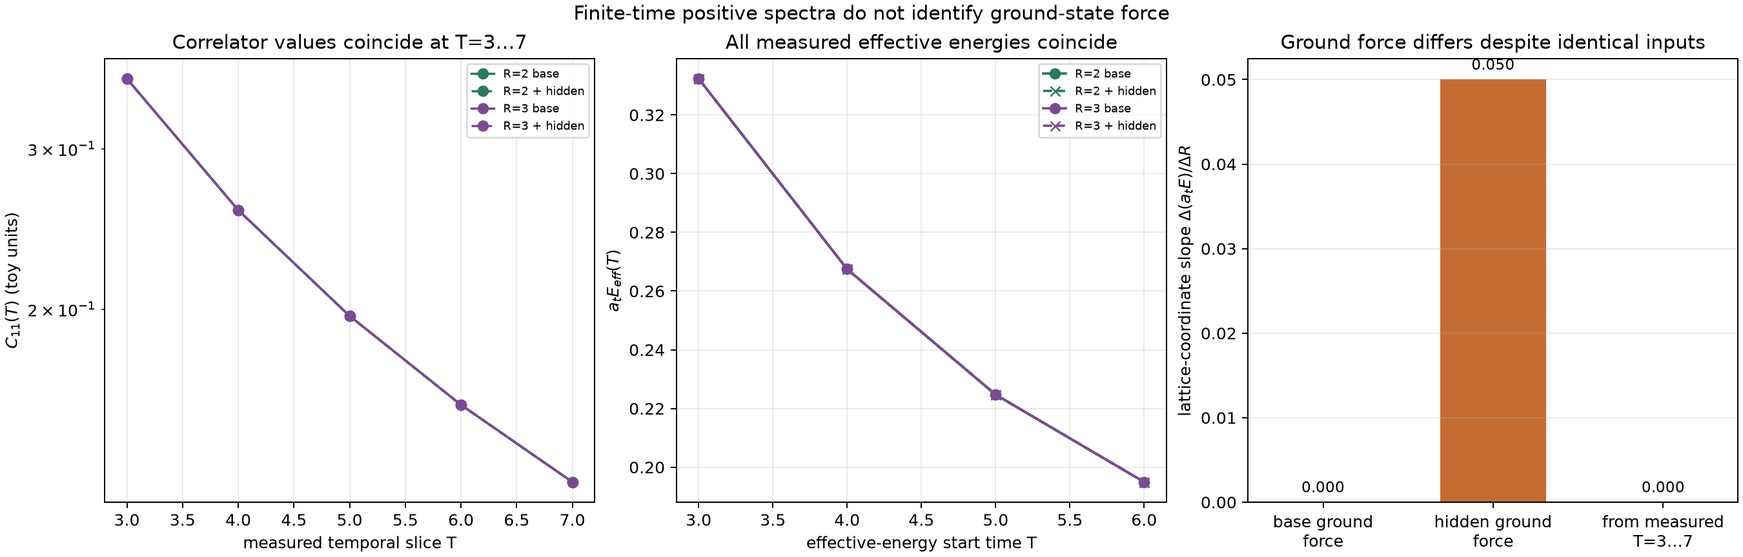
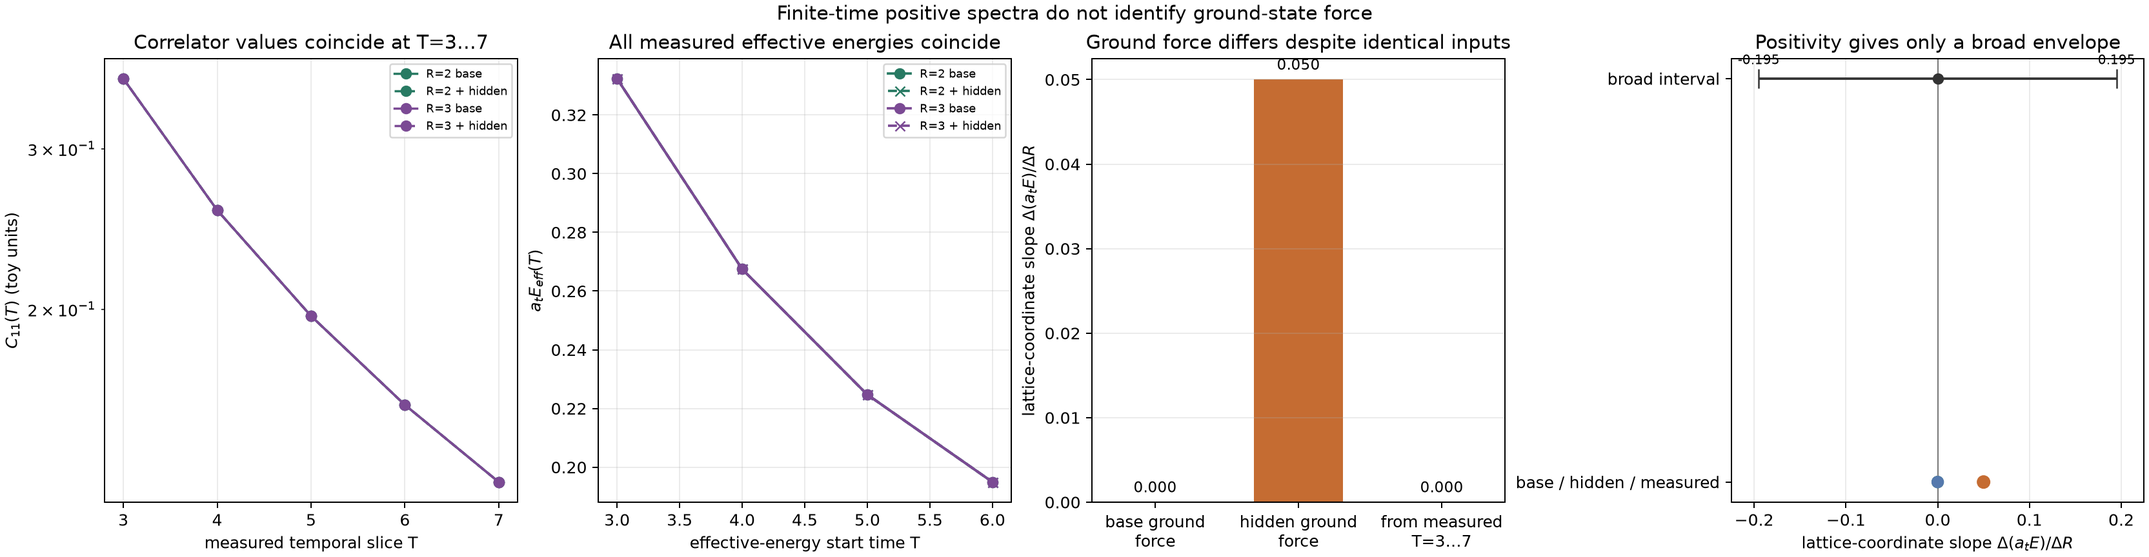
Add positivity-only force envelope diagnosis

diff --git a/tasks/wilson_loop/f_lane_finite_time_ground_force_nonidentifiability.py b/tasks/wilson_loop/f_lane_finite_time_ground_force_nonidentifiability.py
@@ -36,6 +36,30 @@ def _moment_matrix(nodes: np.ndarray, times: tuple[int, ...]) -> np.ndarray:
                        for time in times], dtype=float)
 
 
+def _positivity_only_force_interval(
+    effective_energies: np.ndarray, *, radius_step: float,
+) -> tuple[float, float, list[float]]:
+    """Broad force interval from positive spectra and an explicit E0 >= 0 prior.
+
+    Positive spectral weights imply E_eff(R,T) >= E0(R), so the smallest
+    measured effective energy is an upper bound on E0. The lower bound zero is
+    an additional energy-convention assumption and is not inferred here.
+    """
+    values = np.asarray(effective_energies, dtype=float)
+    if values.ndim != 2 or values.shape[0] != len(R_VALUES) or values.shape[1] < 1:
+        raise ValueError("effective_energies must have one nonempty row per radius")
+    if not np.isfinite(values).all() or np.any(values < 0.0):
+        raise ValueError("effective_energies must be finite and nonnegative")
+    if not math.isfinite(radius_step) or radius_step <= 0.0:
+        raise ValueError("radius_step must be positive and finite")
+    upper_by_radius = np.min(values, axis=1)
+    return (
+        float(-upper_by_radius[0] / radius_step),
+        float(upper_by_radius[1] / radius_step),
+        upper_by_radius.tolist(),
+    )
+
+
 def _build_witness() -> dict[str, Any]:
     """Return two spectra and their finite-time matrix correlators."""
     if len(BASE_NODES) != len(TIME_SLICES):
@@ -101,6 +125,9 @@ def _build_witness() -> dict[str, Any]:
         for values in alt_scalar_by_radius
     ])
     finite_time_force = np.mean(alt_effective[1] - alt_effective[0])
+    positivity_force_lower, positivity_force_upper, positivity_energy_upper = (
+        _positivity_only_force_interval(base_effective, radius_step=radius_step)
+    )
 
     return {
         "moment_matrix": moment,
@@ -117,6 +144,10 @@ def _build_witness() -> dict[str, Any]:
         "base_effective_energies": base_effective,
         "alt_effective_energies": alt_effective,
         "finite_time_force": float(finite_time_force),
+        "positivity_only_force_interval": [
+            positivity_force_lower, positivity_force_upper,
+        ],
+        "positivity_only_ground_energy_upper_by_radius": positivity_energy_upper,
         "max_matrix_abs_residual": float(np.max(np.abs(residual))),
         "max_matrix_relative_residual": relative_residual,
         "minimum_base_weight_after_adjustment": float(np.min(alt_weights_by_radius)),
@@ -137,7 +168,7 @@ def _plot(result: dict[str, Any], path: Path) -> None:
     matplotlib.use("Agg")
     import matplotlib.pyplot as plt
 
-    fig, axes = plt.subplots(1, 3, figsize=(15.0, 4.8), constrained_layout=True)
+    fig, axes = plt.subplots(1, 4, figsize=(18.5, 4.8), constrained_layout=True)
     ax = axes[0]
     times = np.asarray(TIME_SLICES)
     styles = [("#287a63", "-", "R=2 base"),
@@ -181,6 +212,26 @@ def _plot(result: dict[str, Any], path: Path) -> None:
                     (bar.get_x() + bar.get_width() / 2, bar.get_height()),
                     xytext=(0, 4 if value >= 0 else -12), textcoords="offset points",
                     ha="center", va="bottom" if value >= 0 else "top", fontsize=9)
+    ax = axes[3]
+    lower, upper = result["positivity_only_force_interval"]
+    midpoint = 0.5 * (lower + upper)
+    halfwidth = 0.5 * (upper - lower)
+    ax.errorbar([midpoint], [1.0], xerr=[halfwidth], fmt="o", capsize=6,
+                color="#333333")
+    witness_forces = [result["base_ground_force"], result["alt_ground_force"],
+                      result["finite_time_force"]]
+    ax.scatter(witness_forces, [0.0, 0.0, 0.0], s=[45, 55, 45],
+               c=["#287a63", "#c56c32", "#5579ad"], zorder=3)
+    ax.axvline(0.0, color="#777777", linewidth=0.8)
+    ax.set_xlim(lower - 0.03, upper + 0.03)
+    ax.set(yticks=[0.0, 1.0], yticklabels=["base / hidden / measured", "broad interval"],
+           xlabel=r"lattice-coordinate slope $\Delta(a_t E)/\Delta R$",
+           title="Positivity gives only a broad envelope")
+    ax.grid(axis="x", alpha=0.25)
+    ax.annotate(f"{lower:.3f}", (lower, 1.0), xytext=(0, 9),
+                textcoords="offset points", ha="center", fontsize=8)
+    ax.annotate(f"{upper:.3f}", (upper, 1.0), xytext=(0, 9),
+                textcoords="offset points", ha="center", fontsize=8)
     fig.suptitle("Finite-time positive spectra do not identify ground-state force")
     fig.savefig(path, dpi=180)
     plt.close(fig)
@@ -247,6 +298,12 @@ def build_report(output: str | Path = DEFAULT_OUT) -> dict:
         "base_ground_force_lattice_coordinate": result["base_ground_force"],
         "hidden_ground_force_lattice_coordinate": result["alt_ground_force"],
         "finite_time_force_from_measured_effective_energies": result["finite_time_force"],
+        "positivity_only_force_interval_assuming_nonnegative_ground_energies": result[
+            "positivity_only_force_interval"
+        ],
+        "positivity_only_ground_energy_upper_by_radius": result[
+            "positivity_only_ground_energy_upper_by_radius"
+        ],
         "max_matrix_absolute_residual": result["max_matrix_abs_residual"],
         "max_matrix_relative_residual": result["max_matrix_relative_residual"],
         "minimum_adjusted_old_weight": result["minimum_base_weight_after_adjustment"],
@@ -315,6 +372,7 @@ def build_report(output: str | Path = DEFAULT_OUT) -> dict:
         "base_ground_force": result["base_ground_force"],
         "hidden_ground_force": result["alt_ground_force"],
         "finite_time_force": result["finite_time_force"],
+        "positivity_only_force_interval": result["positivity_only_force_interval"],
         "max_matrix_relative_residual": result["max_matrix_relative_residual"],
         "minimum_adjusted_old_weight": result["minimum_base_weight_after_adjustment"],
         "physical_score": None,
@@ -353,7 +411,9 @@ ground force 0.000 vs 0.050 while observed finite-time force remains 0.000
 
 This is a constructive non-identifiability result for the chosen finite set of positive-time correlator matrices. More generally, for a finite moment vector in the interior of the positive moment cone, a sufficiently small new positive atom can be added at a transfer eigenvalue above the assumed largest node, while nearby positive weights on the old nodes preserve every observed moment exactly. The hidden transfer eigenvalue can approach 1 while its positive amplitude shrinks, so these finite observations do not establish a positive lower gap or an overlap floor. Positivity together with a declared nonnegative-energy convention can still imply a broad envelope; this witness shows that the finite-time data alone do not identify a unique ground force or establish the tight project-specific model-truncation budget required by the F-lane contract. An independently justified overlap/gap/support restriction or equivalent receipt is needed to narrow that envelope. With noisy data the indistinguishable set only grows.
 
-The witness does **not** say the hidden spectrum is realized in the project, quantify the actual force error, include finite-`N_t` winding/thermal or mixed-sector `h/x`, identify the production exporter convention, or establish the size of any valid spectral prior. It therefore does not set the Wilson force budget. It instead shows why an independently sourced spectral restriction is required before the F-lane model-truncation component can be finite. Keep F=`GROUND_STATE_FORCE_UNCERTIFIED`, both Wilson lanes `NOT_READY/UNCERTIFIED`, `physical_score=null`, and sealed inputs closed.
+Under the **additional convention** that every ground energy is nonnegative, positive spectral weights imply `0 <= E0(R) <= min_T E_eff(R,T)`. Applied to this toy, that gives only `ground force in [{result['positivity_only_force_interval'][0]:.6f}, {result['positivity_only_force_interval'][1]:.6f}]`, a width of `{result['positivity_only_force_interval'][1] - result['positivity_only_force_interval'][0]:.6f}` in lattice-coordinate units. This contains both witnesses, but it is broad; the nonnegative-energy convention itself must be checked for the production energy normalization, especially if an additive static-energy subtraction is used.
+
+The witness does **not** say the hidden spectrum is realized in the project, quantify the actual force error, include finite-`N_t` winding/thermal or mixed-sector `h/x`, identify the production exporter convention, or establish the size of any valid spectral prior. The positivity-only range therefore does not set the Wilson force budget. It instead shows why an independently sourced spectral restriction is required before the F-lane model-truncation component can be made tight enough for the selected budget. Keep F=`GROUND_STATE_FORCE_UNCERTIFIED`, both Wilson lanes `NOT_READY/UNCERTIFIED`, `physical_score=null`, and sealed inputs closed.
 
 ## Reproduction and evidence
 

diff --git a/tasks/wilson_loop/f_lane_finite_time_ground_force_nonidentifiability_20261128_v1/source_snapshot/f_lane_finite_time_ground_force_nonidentifiability.py b/tasks/wilson_loop/f_lane_finite_time_ground_force_nonidentifiability_20261128_v1/source_snapshot/f_lane_finite_time_ground_force_nonidentifiability.py
@@ -36,6 +36,30 @@ def _moment_matrix(nodes: np.ndarray, times: tuple[int, ...]) -> np.ndarray:
                        for time in times], dtype=float)
 
 
+def _positivity_only_force_interval(
+    effective_energies: np.ndarray, *, radius_step: float,
+) -> tuple[float, float, list[float]]:
+    """Broad force interval from positive spectra and an explicit E0 >= 0 prior.
+
+    Positive spectral weights imply E_eff(R,T) >= E0(R), so the smallest
+    measured effective energy is an upper bound on E0. The lower bound zero is
+    an additional energy-convention assumption and is not inferred here.
+    """
+    values = np.asarray(effective_energies, dtype=float)
+    if values.ndim != 2 or values.shape[0] != len(R_VALUES) or values.shape[1] < 1:
+        raise ValueError("effective_energies must have one nonempty row per radius")
+    if not np.isfinite(values).all() or np.any(values < 0.0):
+        raise ValueError("effective_energies must be finite and nonnegative")
+    if not math.isfinite(radius_step) or radius_step <= 0.0:
+        raise ValueError("radius_step must be positive and finite")
+    upper_by_radius = np.min(values, axis=1)
+    return (
+        float(-upper_by_radius[0] / radius_step),
+        float(upper_by_radius[1] / radius_step),
+        upper_by_radius.tolist(),
+    )
+
+
 def _build_witness() -> dict[str, Any]:
     """Return two spectra and their finite-time matrix correlators."""
     if len(BASE_NODES) != len(TIME_SLICES):
@@ -101,6 +125,9 @@ def _build_witness() -> dict[str, Any]:
         for values in alt_scalar_by_radius
     ])
     finite_time_force = np.mean(alt_effective[1] - alt_effective[0])
+    positivity_force_lower, positivity_force_upper, positivity_energy_upper = (
+        _positivity_only_force_interval(base_effective, radius_step=radius_step)
+    )
 
     return {
         "moment_matrix": moment,
@@ -117,6 +144,10 @@ def _build_witness() -> dict[str, Any]:
         "base_effective_energies": base_effective,
         "alt_effective_energies": alt_effective,
         "finite_time_force": float(finite_time_force),
+        "positivity_only_force_interval": [
+            positivity_force_lower, positivity_force_upper,
+        ],
+        "positivity_only_ground_energy_upper_by_radius": positivity_energy_upper,
         "max_matrix_abs_residual": float(np.max(np.abs(residual))),
         "max_matrix_relative_residual": relative_residual,
         "minimum_base_weight_after_adjustment": float(np.min(alt_weights_by_radius)),
@@ -137,7 +168,7 @@ def _plot(result: dict[str, Any], path: Path) -> None:
     matplotlib.use("Agg")
     import matplotlib.pyplot as plt
 
-    fig, axes = plt.subplots(1, 3, figsize=(15.0, 4.8), constrained_layout=True)
+    fig, axes = plt.subplots(1, 4, figsize=(18.5, 4.8), constrained_layout=True)
     ax = axes[0]
     times = np.asarray(TIME_SLICES)
     styles = [("#287a63", "-", "R=2 base"),
@@ -181,6 +212,26 @@ def _plot(result: dict[str, Any], path: Path) -> None:
                     (bar.get_x() + bar.get_width() / 2, bar.get_height()),
                     xytext=(0, 4 if value >= 0 else -12), textcoords="offset points",
                     ha="center", va="bottom" if value >= 0 else "top", fontsize=9)
+    ax = axes[3]
+    lower, upper = result["positivity_only_force_interval"]
+    midpoint = 0.5 * (lower + upper)
+    halfwidth = 0.5 * (upper - lower)
+    ax.errorbar([midpoint], [1.0], xerr=[halfwidth], fmt="o", capsize=6,
+                color="#333333")
+    witness_forces = [result["base_ground_force"], result["alt_ground_force"],
+                      result["finite_time_force"]]
+    ax.scatter(witness_forces, [0.0, 0.0, 0.0], s=[45, 55, 45],
+               c=["#287a63", "#c56c32", "#5579ad"], zorder=3)
+    ax.axvline(0.0, color="#777777", linewidth=0.8)
+    ax.set_xlim(lower - 0.03, upper + 0.03)
+    ax.set(yticks=[0.0, 1.0], yticklabels=["base / hidden / measured", "broad interval"],
+           xlabel=r"lattice-coordinate slope $\Delta(a_t E)/\Delta R$",
+           title="Positivity gives only a broad envelope")
+    ax.grid(axis="x", alpha=0.25)
+    ax.annotate(f"{lower:.3f}", (lower, 1.0), xytext=(0, 9),
+                textcoords="offset points", ha="center", fontsize=8)
+    ax.annotate(f"{upper:.3f}", (upper, 1.0), xytext=(0, 9),
+                textcoords="offset points", ha="center", fontsize=8)
     fig.suptitle("Finite-time positive spectra do not identify ground-state force")
     fig.savefig(path, dpi=180)
     plt.close(fig)
@@ -247,6 +298,12 @@ def build_report(output: str | Path = DEFAULT_OUT) -> dict:
         "base_ground_force_lattice_coordinate": result["base_ground_force"],
         "hidden_ground_force_lattice_coordinate": result["alt_ground_force"],
         "finite_time_force_from_measured_effective_energies": result["finite_time_force"],
+        "positivity_only_force_interval_assuming_nonnegative_ground_energies": result[
+            "positivity_only_force_interval"
+        ],
+        "positivity_only_ground_energy_upper_by_radius": result[
+            "positivity_only_ground_energy_upper_by_radius"
+        ],
         "max_matrix_absolute_residual": result["max_matrix_abs_residual"],
         "max_matrix_relative_residual": result["max_matrix_relative_residual"],
         "minimum_adjusted_old_weight": result["minimum_base_weight_after_adjustment"],
@@ -315,6 +372,7 @@ def build_report(output: str | Path = DEFAULT_OUT) -> dict:
         "base_ground_force": result["base_ground_force"],
         "hidden_ground_force": result["alt_ground_force"],
         "finite_time_force": result["finite_time_force"],
+        "positivity_only_force_interval": result["positivity_only_force_interval"],
         "max_matrix_relative_residual": result["max_matrix_relative_residual"],
         "minimum_adjusted_old_weight": result["minimum_base_weight_after_adjustment"],
         "physical_score": None,
@@ -353,7 +411,9 @@ ground force 0.000 vs 0.050 while observed finite-time force remains 0.000
 
 This is a constructive non-identifiability result for the chosen finite set of positive-time correlator matrices. More generally, for a finite moment vector in the interior of the positive moment cone, a sufficiently small new positive atom can be added at a transfer eigenvalue above the assumed largest node, while nearby positive weights on the old nodes preserve every observed moment exactly. The hidden transfer eigenvalue can approach 1 while its positive amplitude shrinks, so these finite observations do not establish a positive lower gap or an overlap floor. Positivity together with a declared nonnegative-energy convention can still imply a broad envelope; this witness shows that the finite-time data alone do not identify a unique ground force or establish the tight project-specific model-truncation budget required by the F-lane contract. An independently justified overlap/gap/support restriction or equivalent receipt is needed to narrow that envelope. With noisy data the indistinguishable set only grows.
 
-The witness does **not** say the hidden spectrum is realized in the project, quantify the actual force error, include finite-`N_t` winding/thermal or mixed-sector `h/x`, identify the production exporter convention, or establish the size of any valid spectral prior. It therefore does not set the Wilson force budget. It instead shows why an independently sourced spectral restriction is required before the F-lane model-truncation component can be finite. Keep F=`GROUND_STATE_FORCE_UNCERTIFIED`, both Wilson lanes `NOT_READY/UNCERTIFIED`, `physical_score=null`, and sealed inputs closed.
+Under the **additional convention** that every ground energy is nonnegative, positive spectral weights imply `0 <= E0(R) <= min_T E_eff(R,T)`. Applied to this toy, that gives only `ground force in [{result['positivity_only_force_interval'][0]:.6f}, {result['positivity_only_force_interval'][1]:.6f}]`, a width of `{result['positivity_only_force_interval'][1] - result['positivity_only_force_interval'][0]:.6f}` in lattice-coordinate units. This contains both witnesses, but it is broad; the nonnegative-energy convention itself must be checked for the production energy normalization, especially if an additive static-energy subtraction is used.
+
+The witness does **not** say the hidden spectrum is realized in the project, quantify the actual force error, include finite-`N_t` winding/thermal or mixed-sector `h/x`, identify the production exporter convention, or establish the size of any valid spectral prior. The positivity-only range therefore does not set the Wilson force budget. It instead shows why an independently sourced spectral restriction is required before the F-lane model-truncation component can be made tight enough for the selected budget. Keep F=`GROUND_STATE_FORCE_UNCERTIFIED`, both Wilson lanes `NOT_READY/UNCERTIFIED`, `physical_score=null`, and sealed inputs closed.
 
 ## Reproduction and evidence
 

diff --git a/tests/test_wilson_f_lane_finite_time_nonidentifiability.py b/tests/test_wilson_f_lane_finite_time_nonidentifiability.py
@@ -3,6 +3,7 @@ import numpy as np
 from tasks.wilson_loop.f_lane_finite_time_ground_force_nonidentifiability import (
     HIDDEN_AMPLITUDE,
     _build_witness,
+    _positivity_only_force_interval,
 )
 
 
@@ -34,3 +35,17 @@ def test_all_measured_effective_energies_are_indistinguishable():
         rtol=1e-14,
         atol=1e-14,
     )
+
+
+def test_positive_spectrum_only_envelope_contains_witnesses_but_is_broad():
+    result = _build_witness()
+    lower, upper, energy_upper = _positivity_only_force_interval(
+        result["base_effective_energies"], radius_step=1.0,
+    )
+    assert np.allclose(energy_upper, [0.19494905943040766] * 2)
+    assert np.isclose(lower, -0.19494905943040766)
+    assert np.isclose(upper, 0.19494905943040766)
+    assert lower <= result["base_ground_force"] <= upper
+    assert lower <= result["alt_ground_force"] <= upper
+    assert lower <= result["finite_time_force"] <= upper
+    assert upper - lower > 0.38

diff --git a/tasks/wilson_loop/todo.md b/tasks/wilson_loop/todo.md
@@ -985,8 +985,10 @@ V w_alt + epsilon v_hidden = V w_base; all adjusted old weights remain positive
 same matrices / same measured effective energies -> ground force 0.000 vs 0.050
 ~~~
 
-这构造说明有限时间的 3×3 正谱数据本身不唯一决定 `E_0(R)` 或 ground force；更一般地，只要有限矩向量位于正矩锥内部，就可加入足够小的正原子并微调旧正权重来保持所有已观测矩不变。令隐藏 transfer node 趋近 1、同时把振幅缩小，可在完全相同的有限采样值下继续降低未见态能量；因此有限时间 fit residual、Jacobian rank 或 q/h/x 参数协方差本身不给出生产所需的 overlap floor / gap receipt。若额外采用非负能量约定，正性仍可给较宽的可行 envelope；本结果只否定从这些时间点单独推出紧的项目 `model_truncation_bound`，不否认存在依赖外部谱约束的有效界。
+这构造说明有限时间的 3×3 正谱数据本身不唯一决定 `E_0(R)` 或 ground force；更一般地，只要有限矩向量位于正矩锥内部，就可加入足够小的正原子并微调旧正权重来保持所有已观测矩不变。令隐藏 transfer node 趋近 1、同时把振幅缩小，可在完全相同的有限采样值下继续降低未见态能量；因此有限时间 fit residual、Jacobian rank 或 q/h/x 参数协方差本身不给出生产所需的 overlap floor / gap receipt。
 
-输出保存五个时间的两组 3×3 矩阵、逐 `(R,T)` CSV、冻结参数、源码快照、协议、图和 artifact hashes。定向测试 `tests/test_wilson_f_lane_finite_time_nonidentifiability.py` **3 passed**，覆盖矩阵完全匹配到浮点精度、所有矩阵 Hermitian positive definite、旧谱权重为正、effective-energy 观测重合但基态力不同。未做 Monte Carlo、未读 `C_ij`/GEVP/thermal/sealed bytes，未启动 GPU/QUDA；Wilson C/F 两 lane、`NOT_READY/UNCERTIFIED`、F=`GROUND_STATE_FORCE_UNCERTIFIED`、`physical_score=null` 不变。
+还计算了一个明确有条件、但很宽的 positivity-only 包络：若 production energy convention 另行保证每个谱能量 `a_t E_n>=0`，正谱给 `0<=a_t E_0(R)<=min_{T=3..6} a_t E_eff(R,T)`。本 toy 的每个半径上界均为 `0.194949`，故 `R=2→3` ground force 只能收窄到 `[-0.194949,+0.194949]`，宽度 `0.389898`；它包含 `0` 与 `0.05` 两个不可区分的 ground force。该非负能量约定需检查是否与 production 的静态能量减法/归一化一致；若不成立，此区间不能引用。这个 broad envelope 不证明达到 Wilson contract 的 1% model-truncation budget，正 reference force 仍缺，故不据此通过或失败物理门。
+
+输出保存五个时间的两组 3×3 矩阵、逐 `(R,T)` CSV、冻结参数、源码快照、协议、图和 artifact hashes。定向测试 `tests/test_wilson_f_lane_finite_time_nonidentifiability.py` **4 passed**，覆盖矩阵完全匹配到浮点精度、所有矩阵 Hermitian positive definite、旧谱权重为正、effective-energy 观测重合但基态力不同，以及带 `E_0>=0` 前提的宽力区间。未做 Monte Carlo、未读 `C_ij`/GEVP/thermal/sealed bytes，未启动 GPU/QUDA；Wilson C/F 两 lane、`NOT_READY/UNCERTIFIED`、F=`GROUND_STATE_FORCE_UNCERTIFIED`、`physical_score=null` 不变。
 
 **下一步方法工作：**不要再用不加限制的有限时谱拟合宣称 model-truncation bound。若继续纯 CPU 推进，先把独立 gap/overlap 限制作为显式条件变量，审计 [`ground_state_bound.py`](ground_state_bound.py) 与 `spectral_q_bound_reader.py` 的 q envelope 如何连接有限时间数据，再给出“给定 Q_max、Delta_min 后”的力区间并和 force budget 的 1% 门逐项对照；无这些外部限制时，模型截断项应保持缺失/ABSTAIN。C-lane finite-T Creutz 的 `R=2,T=5,spatial_stout_rho0.10_n5` 与 F-lane ground-state force 仍分开，真实 exporter、thermal/mixed h/x、正 reference-force、授权和独立 review 仍是物理门。

diff --git a/tasks/wilson_loop/f_lane_finite_time_ground_force_nonidentifiability_20261128_v1/README.md b/tasks/wilson_loop/f_lane_finite_time_ground_force_nonidentifiability_20261128_v1/README.md
@@ -28,7 +28,9 @@ ground force 0.000 vs 0.050 while observed finite-time force remains 0.000
 
 This is a constructive non-identifiability result for the chosen finite set of positive-time correlator matrices. More generally, for a finite moment vector in the interior of the positive moment cone, a sufficiently small new positive atom can be added at a transfer eigenvalue above the assumed largest node, while nearby positive weights on the old nodes preserve every observed moment exactly. The hidden transfer eigenvalue can approach 1 while its positive amplitude shrinks, so these finite observations do not establish a positive lower gap or an overlap floor. Positivity together with a declared nonnegative-energy convention can still imply a broad envelope; this witness shows that the finite-time data alone do not identify a unique ground force or establish the tight project-specific model-truncation budget required by the F-lane contract. An independently justified overlap/gap/support restriction or equivalent receipt is needed to narrow that envelope. With noisy data the indistinguishable set only grows.
 
-The witness does **not** say the hidden spectrum is realized in the project, quantify the actual force error, include finite-`N_t` winding/thermal or mixed-sector `h/x`, identify the production exporter convention, or establish the size of any valid spectral prior. It therefore does not set the Wilson force budget. It instead shows why an independently sourced spectral restriction is required before the F-lane model-truncation component can be finite. Keep F=`GROUND_STATE_FORCE_UNCERTIFIED`, both Wilson lanes `NOT_READY/UNCERTIFIED`, `physical_score=null`, and sealed inputs closed.
+Under the **additional convention** that every ground energy is nonnegative, positive spectral weights imply `0 <= E0(R) <= min_T E_eff(R,T)`. Applied to this toy, that gives only `ground force in [-0.194949, 0.194949]`, a width of `0.389898` in lattice-coordinate units. This contains both witnesses, but it is broad; the nonnegative-energy convention itself must be checked for the production energy normalization, especially if an additive static-energy subtraction is used.
+
+The witness does **not** say the hidden spectrum is realized in the project, quantify the actual force error, include finite-`N_t` winding/thermal or mixed-sector `h/x`, identify the production exporter convention, or establish the size of any valid spectral prior. The positivity-only range therefore does not set the Wilson force budget. It instead shows why an independently sourced spectral restriction is required before the F-lane model-truncation component can be made tight enough for the selected budget. Keep F=`GROUND_STATE_FORCE_UNCERTIFIED`, both Wilson lanes `NOT_READY/UNCERTIFIED`, `physical_score=null`, and sealed inputs closed.
 
 ## Reproduction and evidence
 

diff --git a/tasks/optimize_gaussian/todo.md b/tasks/optimize_gaussian/todo.md
@@ -890,6 +890,6 @@ PR #6 当前 GitHub 状态仍为 OPEN，复核时 head `a06ecd91e3a83fc19b4ece6b
 
 ### 2026-11-28 PR #6 跨任务 CPU 回归：有限时间基态力反例后
 
-在 Wilson F-lane 新增正谱有限时间非唯一性构造后，重新运行当前 PR #6 全仓 CPU suite：**542 passed in 76.95 s**。这比上一节的 532 项多了 3 项 Wilson 定向测试；Optimize 的 solver / D04 / D06 / D11 实现与合同保持原样。新 Wilson 报告只证明正谱有限矩可有不同 ground force，不产生任何 Optimize 的 reference、solver-risk、成本或 GPU 证据。
+在 Wilson F-lane 新增正谱有限时间非唯一性构造及 positivity-only 宽区间诊断后，重新运行当前 PR #6 全仓 CPU suite：**543 passed in 76.98 s**。这比 532 项快照多了 4 项 Wilson 定向测试；Optimize 的 solver / D04 / D06 / D11 实现与合同保持原样。新 Wilson 报告只证明正谱有限矩可有不同 ground force，并给出带 `a_t E_0>=0` 前提的宽 positivity interval；不产生任何 Optimize 的 reference、solver-risk、成本或 GPU 证据。
 
-文字流程：`Optimize 双比较臂与 D04/D06/D11 合同 + Wilson finite-time positive-spectrum witness -> 全仓 CPU regression -> 542 passed -> 仍需独立 E-reference、获准 paired solver receipt、SU(3) 生产算符 review`。因此此项只更新软件兼容性快照；Optimize 三个 gate 继续 `NOT_READY/UNCERTIFIED`、`physical_score=null`、sealed inputs closed。下一步若没有开放的 Optimize development package，不重复 CPU toy labels 或旧 seeds，也不以这次跨任务回归宣称研究完成。
+文字流程：`Optimize 双比较臂与 D04/D06/D11 合同 + Wilson finite-time positive-spectrum witness -> 全仓 CPU regression -> 543 passed -> 仍需独立 E-reference、获准 paired solver receipt、SU(3) 生产算符 review`。因此此项只更新软件兼容性快照；Optimize 三个 gate 继续 `NOT_READY/UNCERTIFIED`、`physical_score=null`、sealed inputs closed。下一步若没有开放的 Optimize development package，不重复 CPU toy labels 或旧 seeds，也不以这次跨任务回归宣称研究完成。
